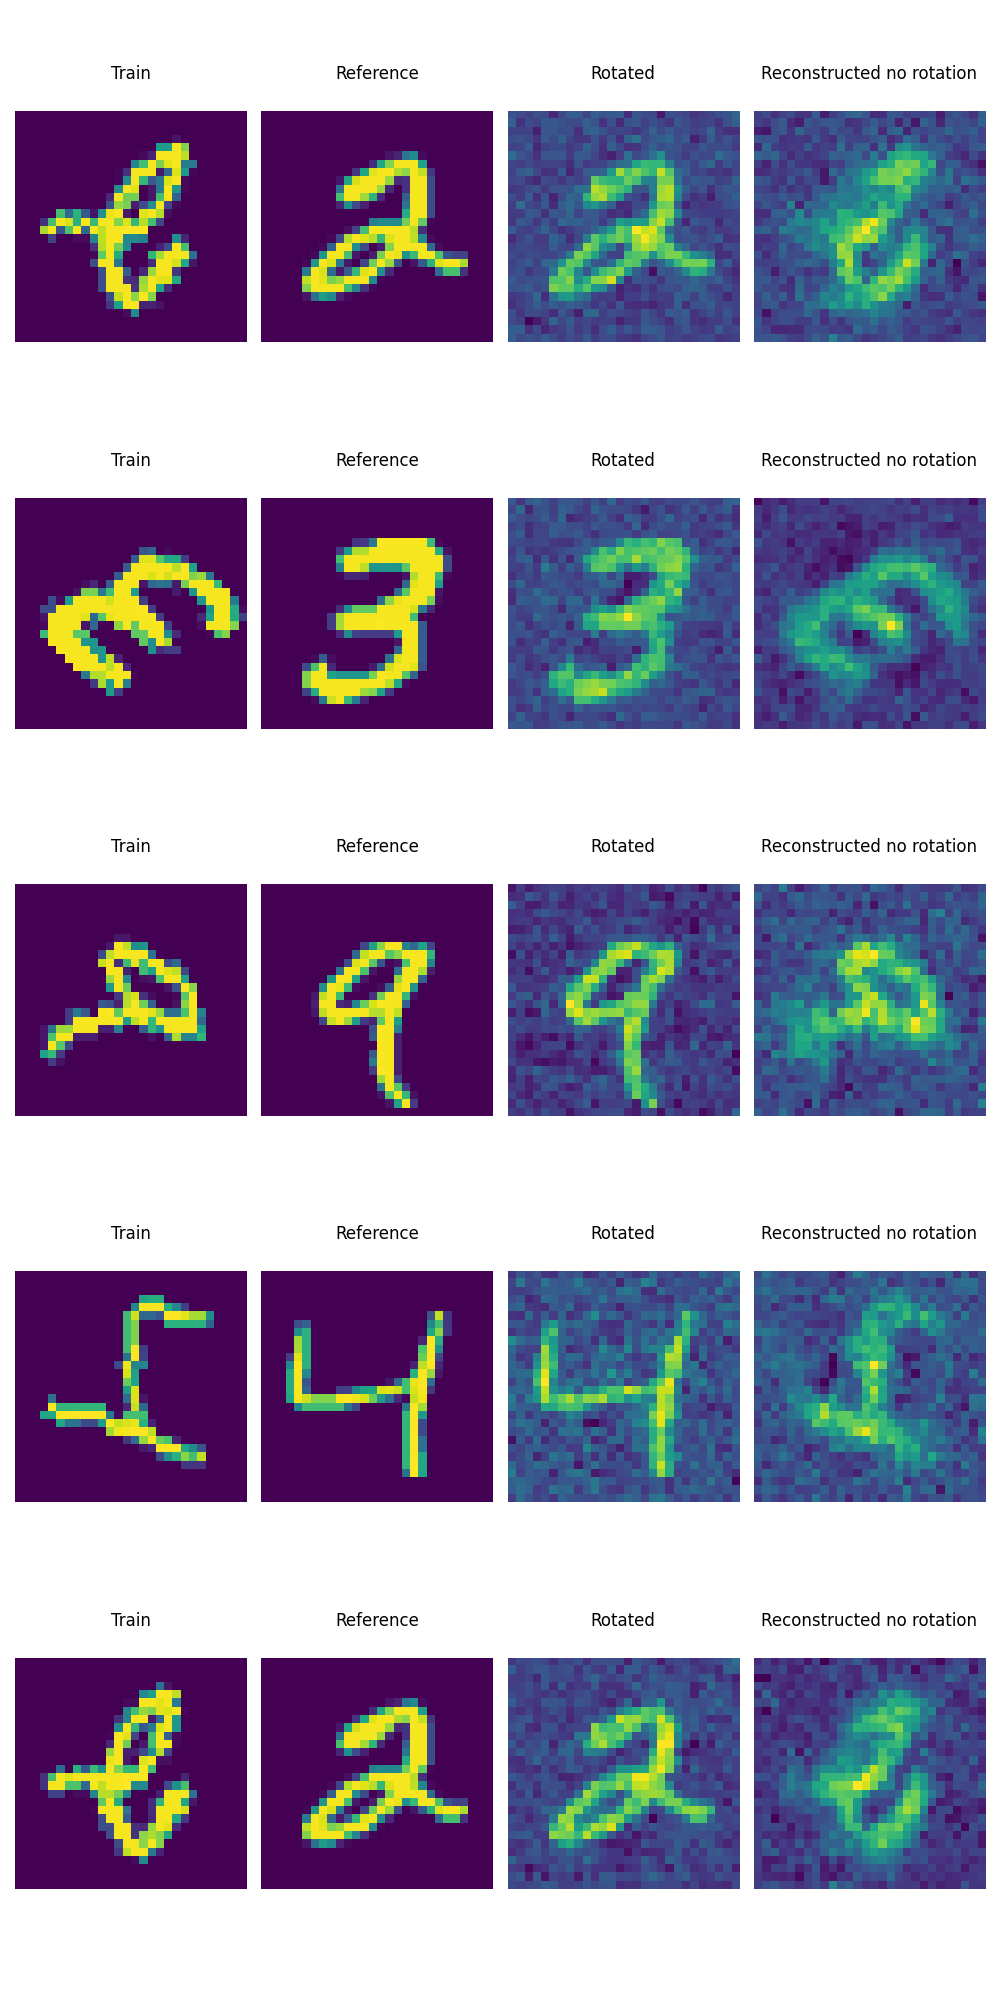
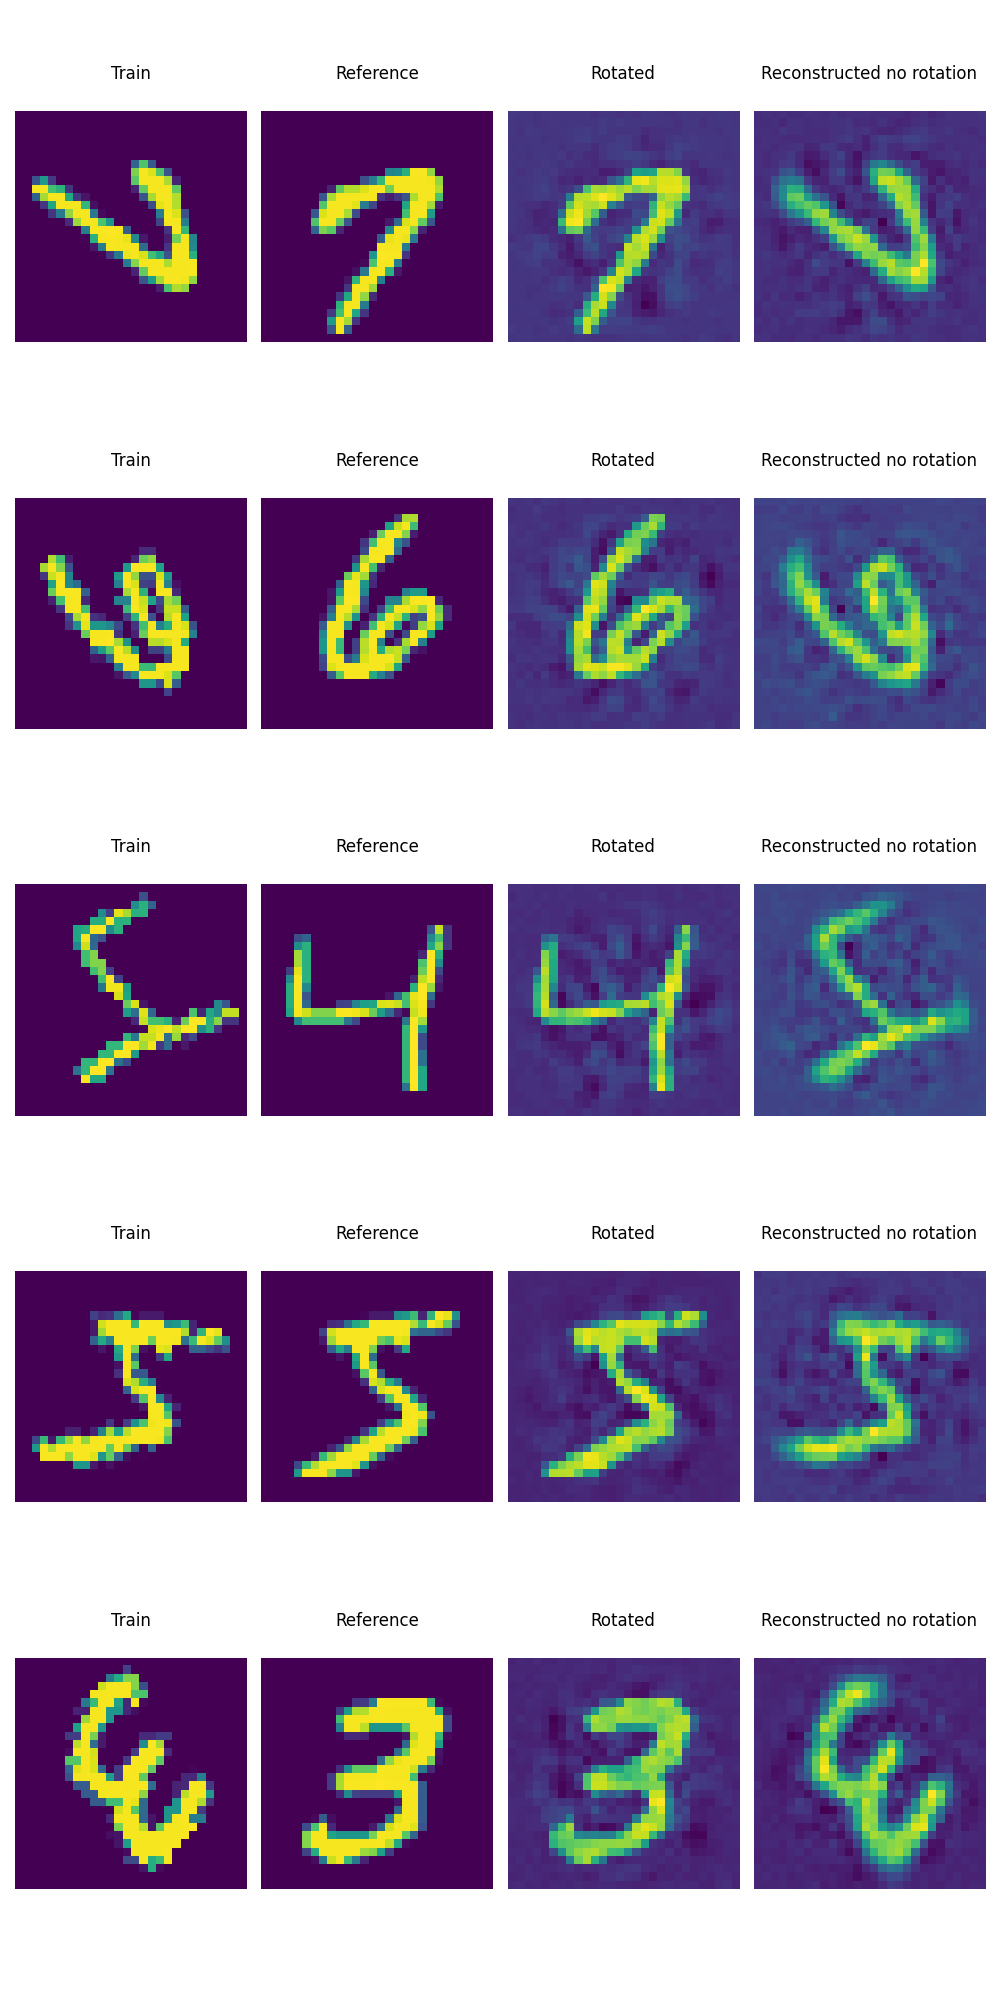
add image

diff --git a/model.py b/model.py
@@ -208,7 +208,7 @@ def log_loss(y, x, w, omega_matrix, sigma = 0.1, prior_k = 0, coupled = False):
 def compute_probas(y, x, w, sigma = 0.1, prior_k = 0):
     return torch.exp(log_proba_y_given_x(y, x, w, sigma = sigma, prior_k = prior_k))
 
-def train_model(train, references, w, omega_matrix, lr = 0.5, n_epochs = 1, batch_size = 256):
+def train_model(train, references, w, omega_matrix, lr = 0.5, n_epochs = 15, batch_size = 256):
     w_optimizer = geoopt.optim.RiemannianAdam([w], lr=lr)
 
     # generate data loader with train and reference

diff --git a/README.md b/README.md
@@ -1,1 +1,2 @@
 Just playing around with: https://arxiv.org/pdf/2012.12071 and https://arxiv.org/pdf/1402.4437
+![rotated](rotated.png)
